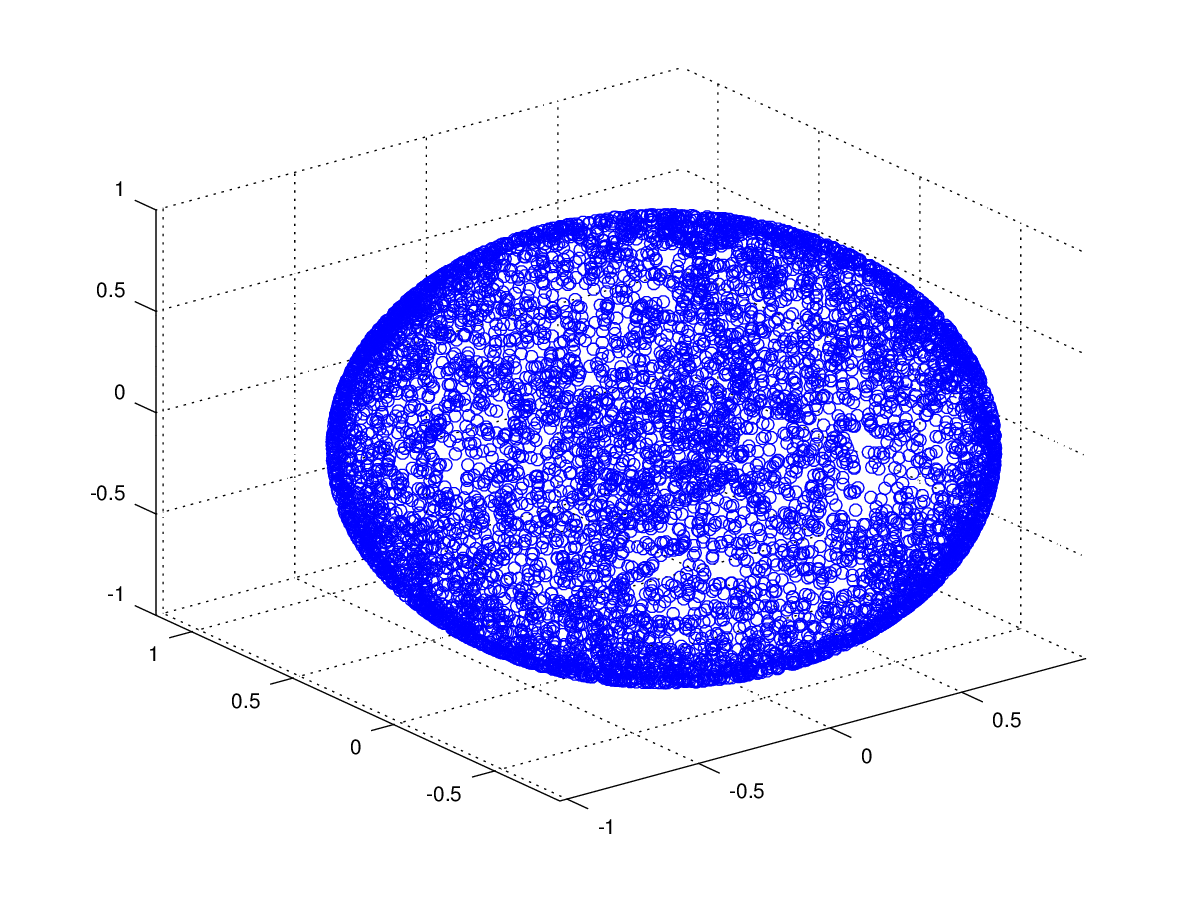
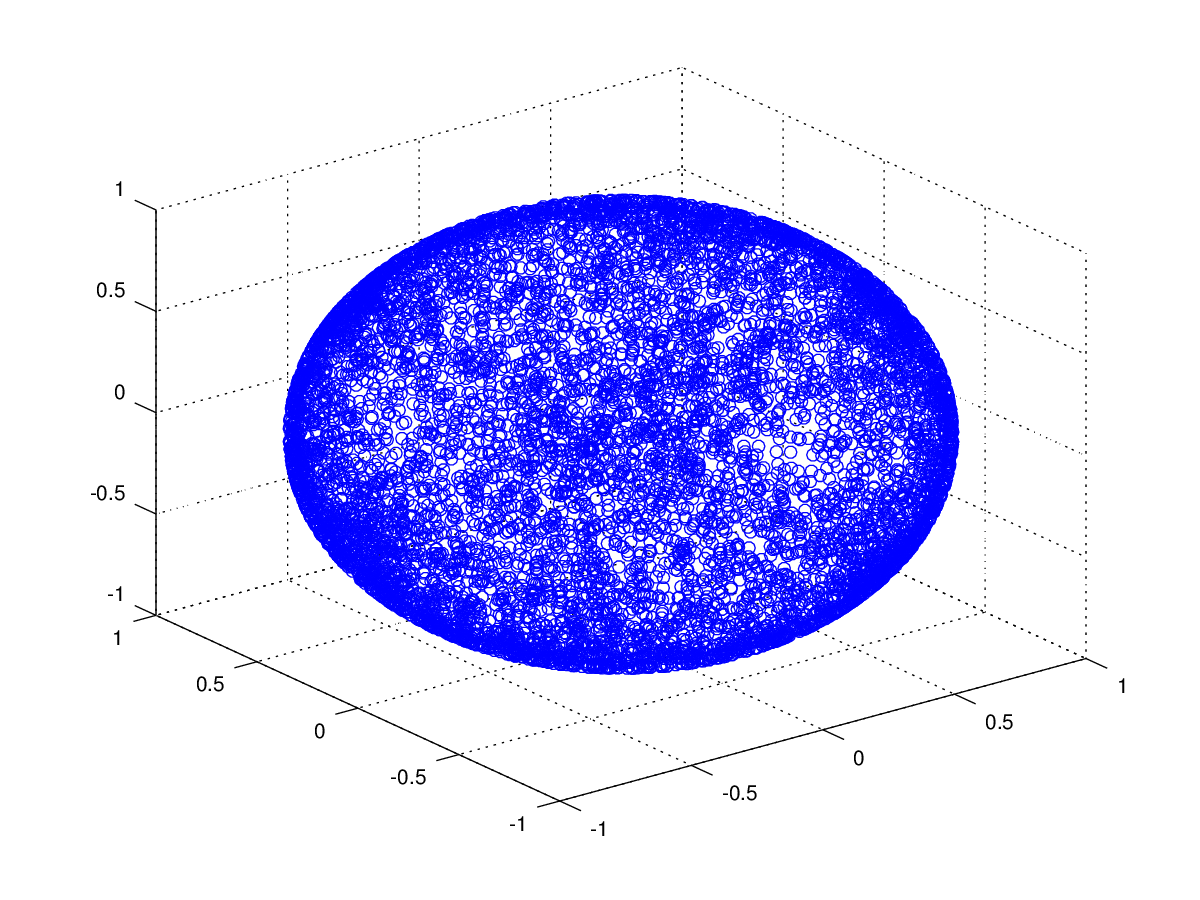
fixed :bug: in bool functions

diff --git a/zettel08/aufg1b.m b/zettel08/aufg1b.m
@@ -4,8 +4,8 @@ points = zeros(10000,3);
 [h,w] = size(points);
 
 for i = 1:h
-  points(i,:) = -5 + (5+5)*rand(1,3);
+  points(i,:) = -1 + (2)*rand(1,3);
   points(i,:) = points(i,:)/norm(points(i,:));
   scatter3(points(i,1),points(i,2),points(i,3)); hold on;
 endfor
-
+sphere;

diff --git a/zettel08/aufg1a.m b/zettel08/aufg1a.m
@@ -1,6 +1,6 @@
 0;
 function e = exec1(w1,w2,w3,t1,t2)
-  if ((w1*t1 + w2*t2 + w3) > 0)
+  if ((w1*t1 + w2*t2 + w3) >= 0)
      e = 1;
    else
      e = 0;

diff --git a/zettel08/aufg1c.m b/zettel08/aufg1c.m
@@ -1,6 +1,6 @@
 0;
 function e = exec1(w1,w2,w3,t1,t2)
-  if ((w1*t1 + w2*t2 + w3) > 0)
+  if ((w1*t1 + w2*t2 + w3) >= 0)
      e = 1;
    else
      e = 0;

diff --git a/zettel08/aufg1d.m b/zettel08/aufg1d.m
@@ -1,6 +1,6 @@
 0;
 function e = exec1(w1,w2,w3,t1,t2)
-  if ((w1*t1 + w2*t2 + w3) > 0)
+  if ((w1*t1 + w2*t2 + w3) >= 0)
      e = 1;
    else
      e = 0;
